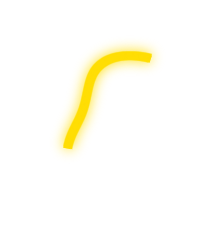
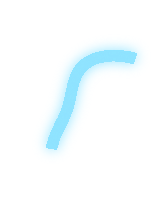
Change puzzle 1-2 path textures
Changed puzzle 1-2 path textures.
Fixed some volume of audioplayers.

Changed region(s): [[0.2381, 0.18, 0.8333, 0.78]]

diff --git a/Game Project/Assets/Scripts/Chapter1/Chapter1Manager.cs b/Game Project/Assets/Scripts/Chapter1/Chapter1Manager.cs
@@ -90,7 +90,7 @@ public class Chapter1Manager : MonoBehaviour
                 StartCoroutine(EnableTransition());
                 break;
             case 9: //Start public class when crowd finish fading in
-                AudioFadeIn(1f);
+                AudioFadeIn(0.4f);
                 jsonReader.ChangeLine("22");
                 break;
             case 10: //Start puzzle2-1
@@ -154,7 +154,7 @@ public class Chapter1Manager : MonoBehaviour
     }
 
     IEnumerator EnableTransition() {
-        AudioFadeOut(0.3f);
+        AudioFadeOut(0.2f);
         yield return new WaitForSeconds(2f);
         clocks[0].SetActive(true);
         clocks[0].GetComponentInChildren<ClockController>().TurnOn(8);
